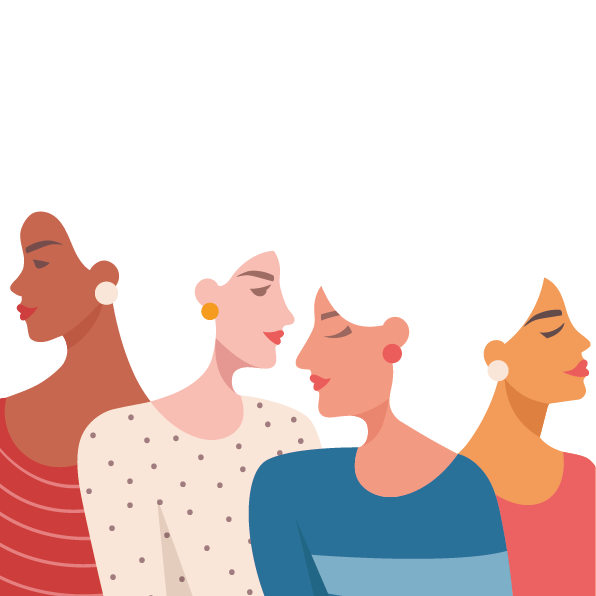
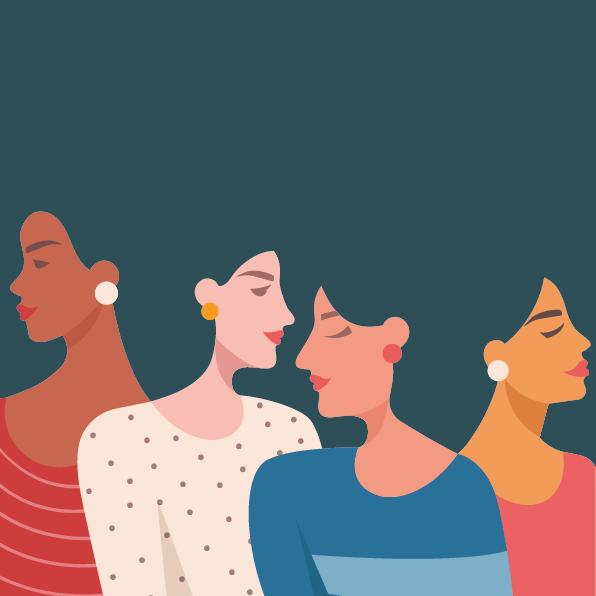
formulaire de contact

diff --git a/assets/css/contact.css b/assets/css/contact.css
@@ -9,29 +9,160 @@
 .illustration_contact {
     width: 100%;
     height:100%;
-    position: absolute;
-    top:150px;
-    background-image: url(../images/illu/contact.png) ;
-    background-size: contain;
-    background-position: center bottom;
-    background-repeat: no-repeat;
-   
-
+    top:-150px; 
 }
+
 .fond_contact{
     width: 50%;
-    height: 100%;
-    top: -150px;
+    max-height: 100vh;
     position: relative;
-    background-color: var(--bouton);
+    background-image: url(../images/illu/contact.png) ;
+    background-size: cover;
+    background-position: center bottom;
+    background-repeat: no-repeat;
 }
 
 
 
 .boxContact   {
     width: 50%; 
-    height: 100%;   
+    height: 100%;
+    background-color: var(); 
     display: flex;
     flex-direction: column;
+    justify-content: space-between;
 
+}
+.contactTexte{
+    
+        width: 65%;
+        min-height: 52vh;
+        display: flex;
+        flex-direction: row;
+        align-self: center;
+        justify-content: space-evenly;
+        align-items: flex-start;
+        
+    
+}
+.inputMessage{
+    display: flex;
+    justify-content: center;
+    align-items: center;
+    flex-direction: column;
+}
+.inputContact{
+    position: relative;
+    width: 328px;
+    height: 173px;  
+    box-sizing: border-box;
+    border: 3px solid #D1D1D1;
+    
+    outline: none;
+}
+.btn_contact{
+    background-color:var(--greenblue);
+    border-radius: 30px;
+    height: 40px;
+    width: 70px;
+    border: none;
+    padding: 20px 20px;
+    display: inline-block;
+    cursor: pointer;
+    background-image: url(../images/illu/arrow.png);
+    background-position: 15px 5px;
+    background-repeat: no-repeat;
+    background-size: 40px;
+}
+
+.btn_contact:hover{
+    background-color: var(--orange);
+    transform: scale(1.05);
+}
+.cont_act{
+    align-self: flex-end;
+    display: flex;
+    flex-direction:row;
+    justify-content: space-evenly;
+    width: 190px;
+    margin-top: -76px;
+    margin-right: 48px;
+}
+
+.cont_act h2{
+    color: var(--grey);
+    font-family: "RobotoBold";
+    font-size: 2rem;
+}
+.inputboxContact{
+    position: relative;
+    width: 330px;
+    height: 50px;
+    box-sizing: border-box;
+    border: 3px solid #D1D1D1;
+    
+    outline: none;
+    
+}
+.formulaire_contact{
+    width: 55%;
+    height: 80vh;
+    background-color: var(--lightgrey);
+    border-radius: 30px;
+    box-shadow:  5px 5px 7px #7B79797A;
+    display: flex;
+    flex-direction: column;
+    justify-content: space-between;
+
+}
+.formulaire_contact input textarea{
+    width: 100%;
+    height: 100%;
+    display: flex;
+    flex-direction: column;
+    justify-content: space-around;
+    align-items: center;
+}
+
+.formulaire_text_contact {
+    display: flex;
+    align-items: center;
+    flex-direction: column;
+}
+
+
+
+.formulaire_text_contact h1{
+    color: var(--grey);
+    font-family:"RobotoBold";
+    text-transform: uppercase;
+    font-size: 3rem;
+}
+
+p{
+    color: var(--grey);
+    font-family: "RobotoRegular";
+    font-size: 1.2rem;
+}
+
+.inputData_contact{
+    display: flex;
+    justify-content: space-evenly;
+    flex-direction: column;
+    width: auto;
+    height: 232px;
+    margin-top: -100px;
+
+}
+.reseau{
+    width: 100%;
+    height: 25%;
+    display: flex;
+    flex-direction: row;
+    justify-content: space-evenly;
+    
+}
+.reseau img{
+    width: 10%;
+    object-fit: contain;
 }

diff --git a/src/views/contact.php b/src/views/contact.php
@@ -2,12 +2,46 @@
     <div class="boxContact ">
 
 
-        <div class="aboutText">
-            <h1>About us</h1>
-            <p>Lorem ipsum dolor sit amet, consectetur adipiscing elit. Proin finibus, augue et placerat pulvinar, augue ipsum efficitur tortor, id volutpat leo dui vitae risus. Vivamus finibus in neque ac tristique. Proin vel accumsan libero. Nunc gravida, dui nec malesuada ornare, libero ipsum dictum lorem, a maximus elit mauris eget quam. Fusce luctus sem quis lorem consequat, sed tincidunt est eleifend. Vestibulum a magna nisl. Aenean ornare hendrerit tristique.
+        <div class="contactText">
+        <div class="formulaire_container">
+                <div class="formulaire_contact">
 
-                Aenean ultrices arcu sed urna fringilla, sed facilisis leo semper. Donec tempus faucibus nisi, ac cursus nisi commodo mollis. Cras consectetur maximus odio ut aliquet. Nunc ut sagittis justo. Aenean in vestibulum mauris. Ut dignissim, quam vel hendrerit fermentum, lacus urna commodo turpis, a pretium nisi nunc in sapien. Praesent pulvinar justo tristique metus blandit, quis rhoncus purus posuere. Pellentesque magna eros, suscipit sit amet luctus in, sagittis placerat dui. Duis tellus tellus, tempus a ipsum eget, mattis interdum urna. Phasellus non massa vel turpis suscipit semper. Praesent lacus massa, pulvinar eu magna eu, varius ultrices sem. Nulla vel leo sit amet tellus varius bibendum vel vitae lacus. Cras luctus iaculis massa non lobortis. Integer non ligula pretium, egestas nunc in, egestas velit. Etiam nec arcu orci. Fusce ante quam, euismod nec interdum et, tincidunt vel nisl.
-            </p>
+                    <form method="post" action="?page=contact">
+                        <div class="formulaire_text_contact">
+                            <h1>Contact</h1>
+                            <p>Keep in touch</p>
+                        </div>
+
+                       <div class="inputData_contact">
+
+                       <div class="inputGroup">
+                            <input class="inputboxContact" type="text" name="email" id="email" placeholder="Name">
+                        </div>
+
+
+                        <div class="inputMessage">
+                        <label for="message"></label>
+                       <textarea class="inputContact" id="message" name="message" rows="3" cols="30" placeholder="Your message..."></textarea> 
+
+                        </div>
+                        
+                       </div>
+                        <!------- Bouton-------->
+                        <div class="cont_act">
+                            <h2>Send</h2>
+                            <input class="btn_contact" type="submit" name="connexion" value="">
+                        </div>                        
+                    </form>
+                    <div class="reseau">
+            <img src="assets\images\illu\facebook.png" alt="">
+            <img src="assets\images\illu\twitter.png" alt="">
+            <img src="assets\images\illu\instagram.png" alt="">
+           </div>
+            
+
+          </div>
+            </div>
+          
         </div>
 
     </div>
